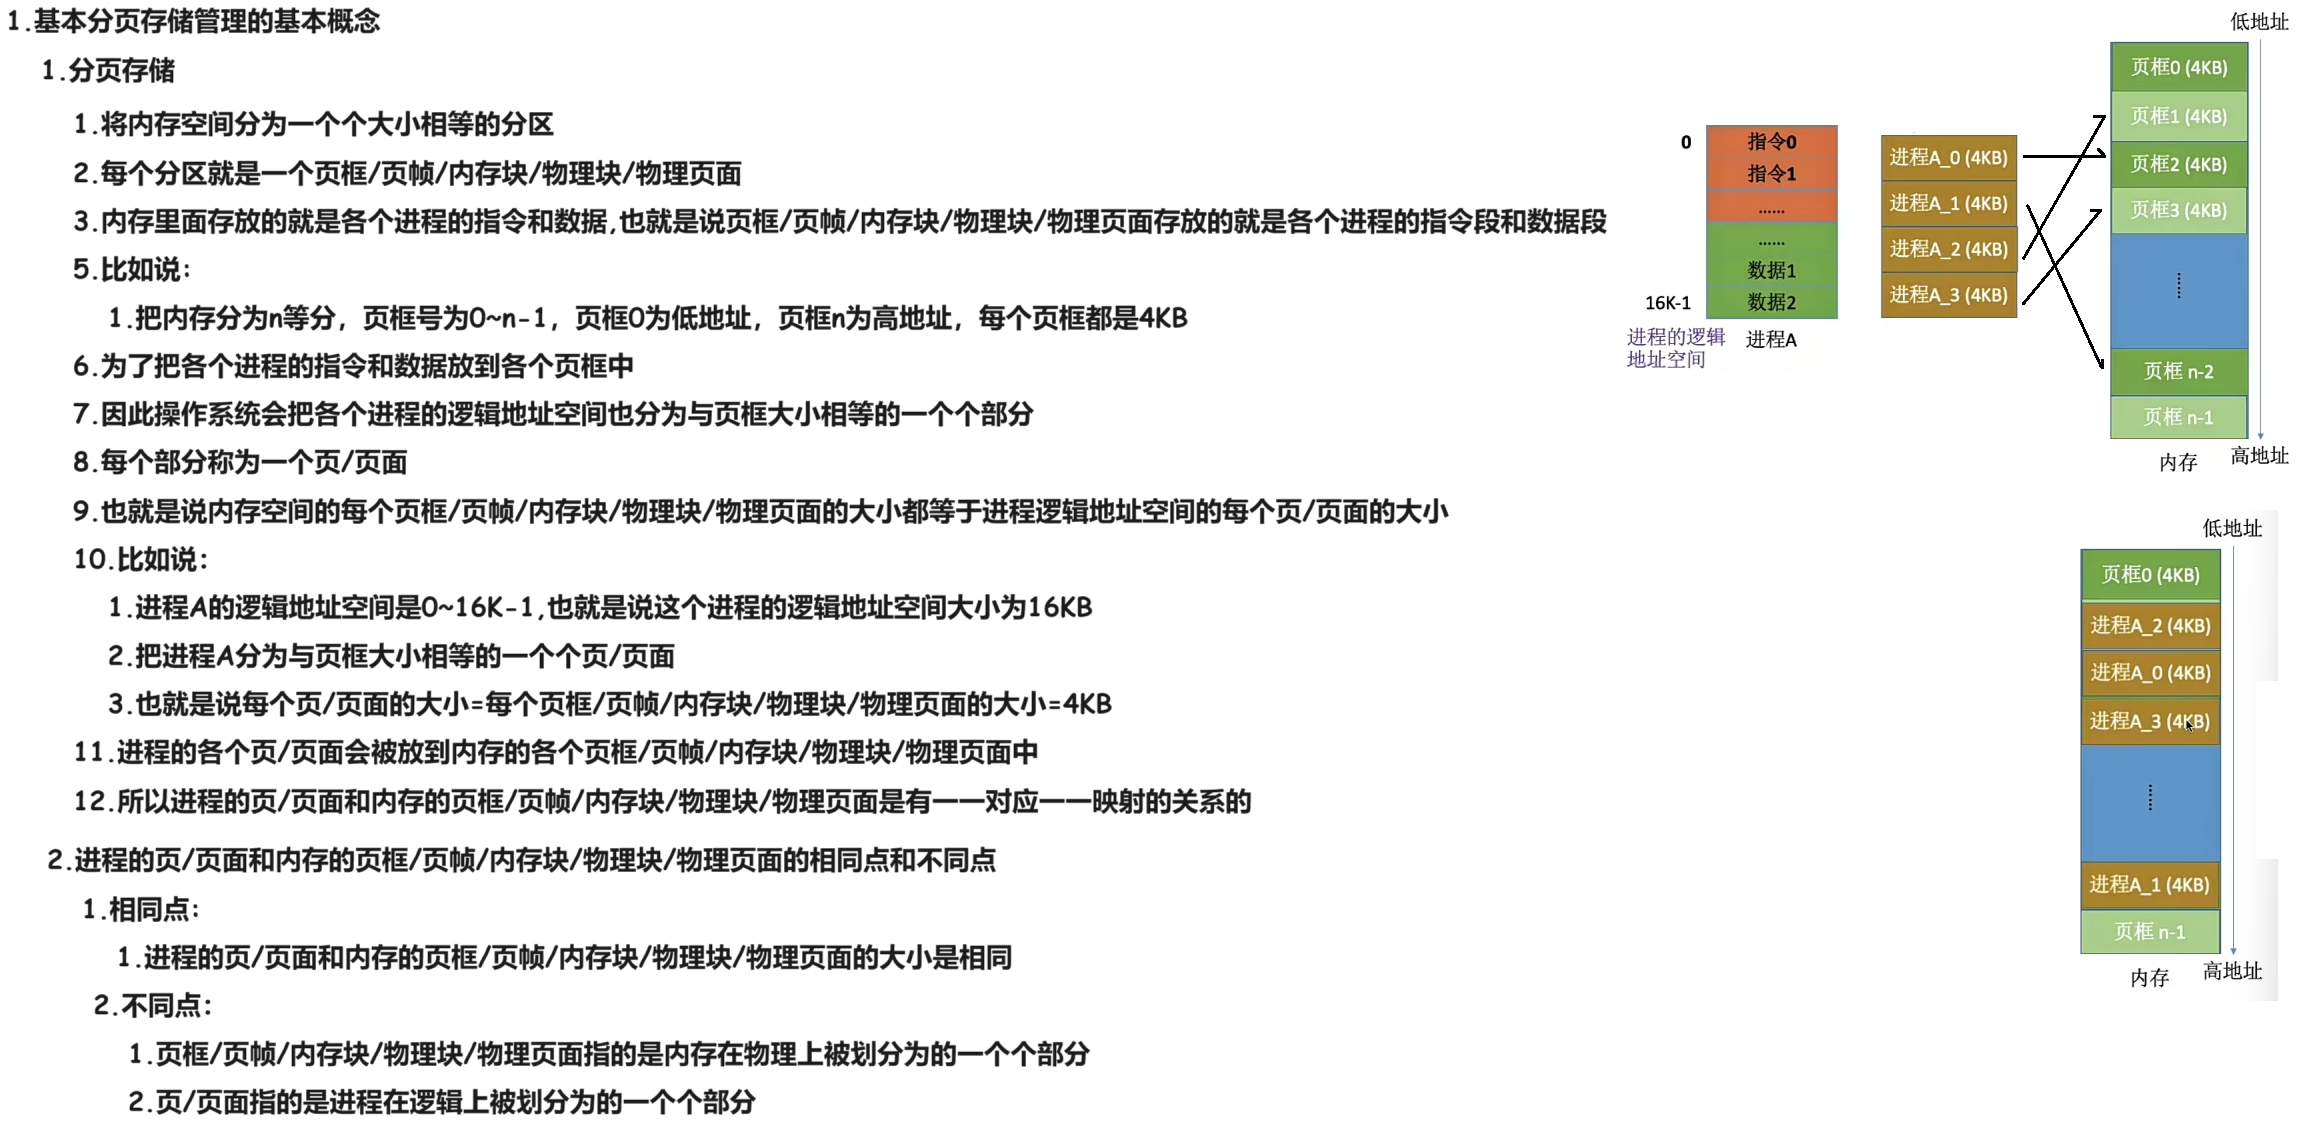
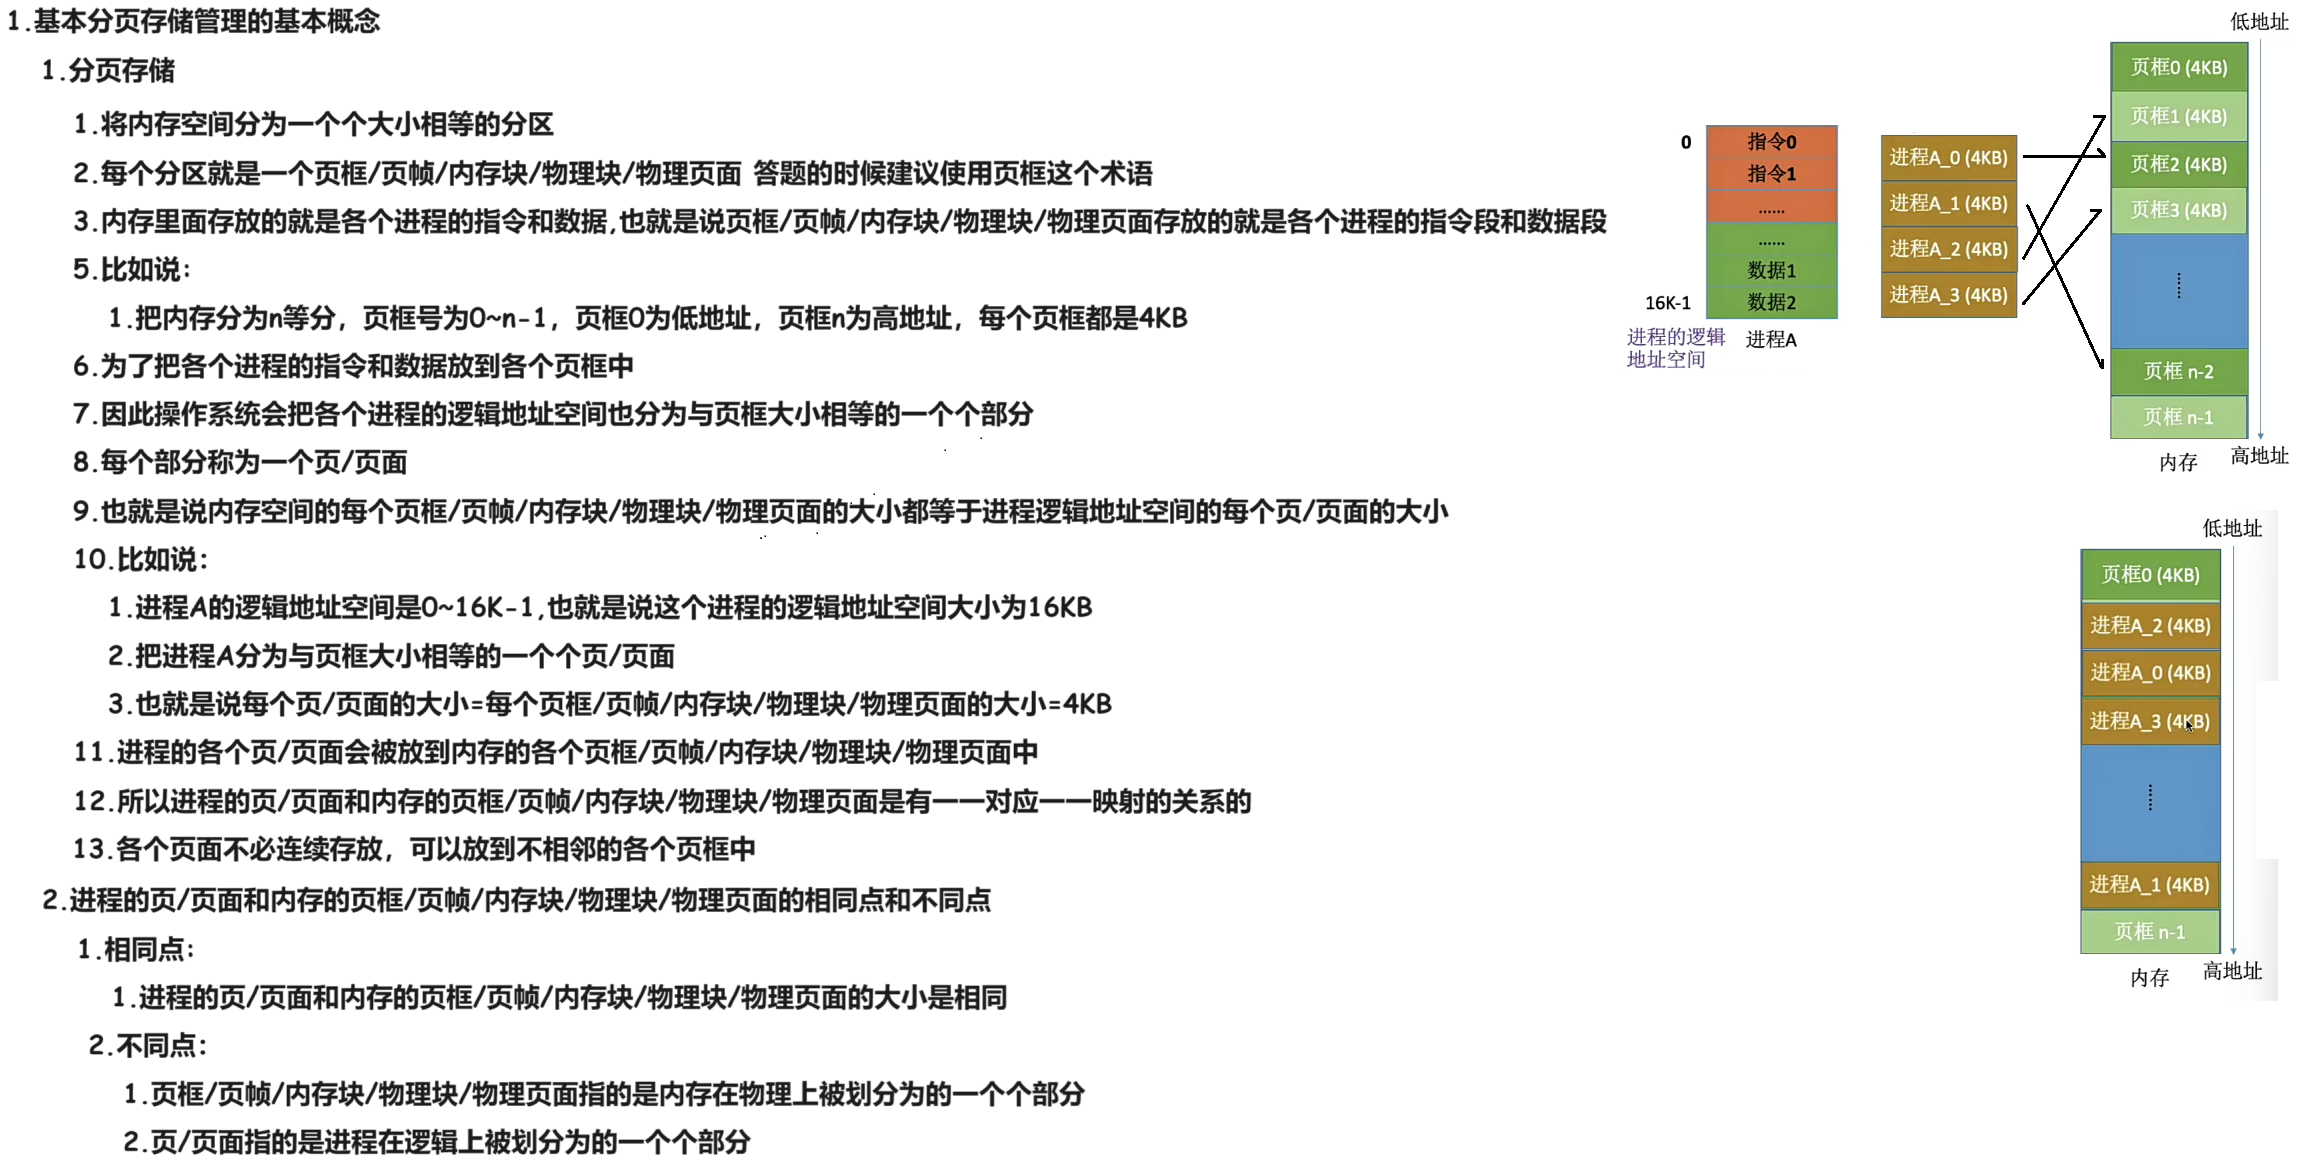
240106

diff --git a/04 每日一题/01 820/05 23/01 操作系统部分/03 计算题/03 基本分页存储管理 240106/03 基本分页存储管理/01 Doc.md b/04 每日一题/01 820/05 23/01 操作系统部分/03 计算题/03 基本分页存储管理 240106/03 基本分页存储管理/01 Doc.md
@@ -4,7 +4,8 @@
 
 ## 01 分页存储
 
-<img src="https://cvp.oss-cn-shanghai.aliyuncs.com/picgo/202401061541429.png" alt="202401061533546" style="zoom:50%;" />
+<img src="https://cvp.oss-cn-shanghai.aliyuncs.com/picgo/202401061956546.png" alt="image-20240106195635293" style="zoom:50%;" />
 
 
 
+## 02 页表
